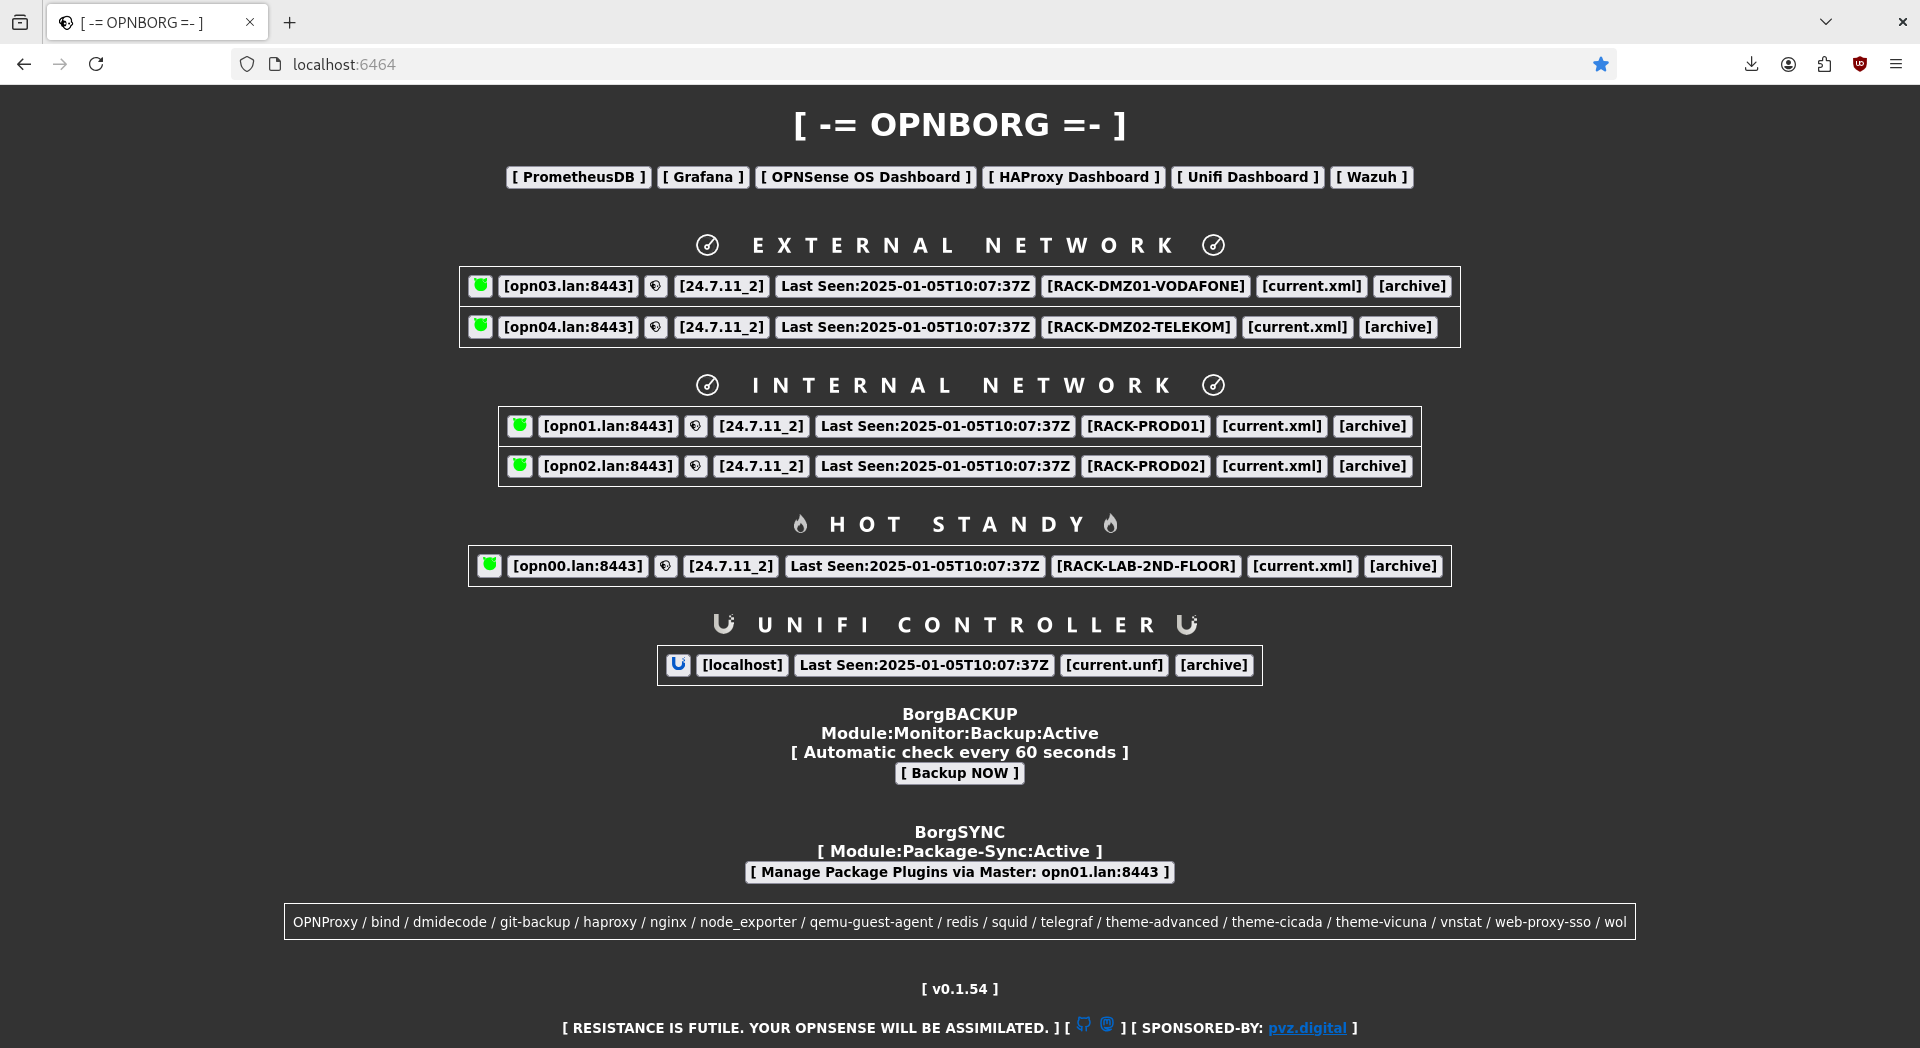
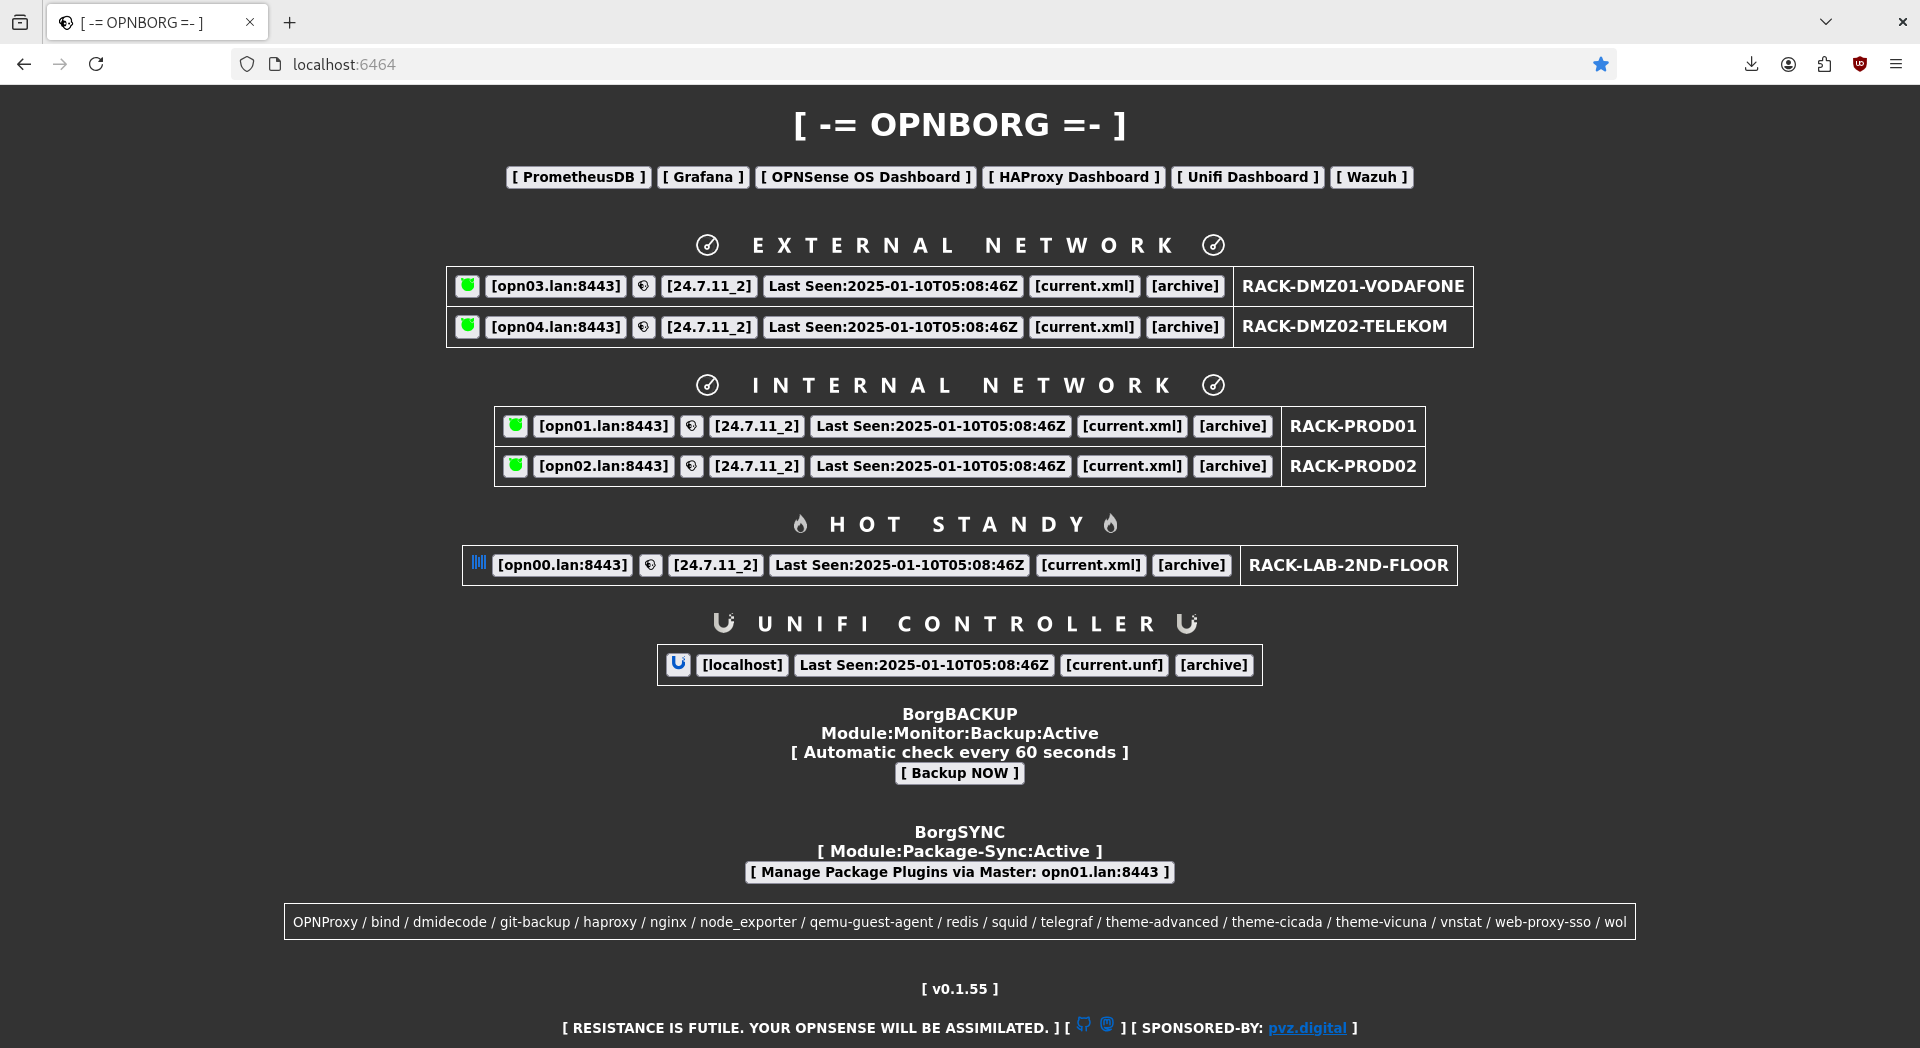
improve: asset tag webui integration

diff --git a/srv.go b/srv.go
@@ -72,14 +72,17 @@ func srv(config *OPNCall) error {
 			switch len(s) {
 			case 1:
 				if len(s[0]) > 0 {
-					status := _na + " <b>Member: </b> " + s[0] + " <b>Version: </b>n/a <b>Last Seen: </b>n/a<br>"
+					status := _na + " <b>Member: </b> " + s[0] + " <b>Version: </b>n/a <b>Last Seen: </b>n/a"
 					hive = append(hive, status)
 				}
 			case 2:
 				if len(s[0]) > 0 && len(s[1]) > 0 {
-					status := _na + " <b>Member: </b> " + s[0] + " <b>Version: </b>n/a <b>Last Seen: </b>n/a <b>AssetTag: </b>" + s[1] + "<br>"
+					status := _na + " <b>Member: </b> " + s[0] + " <b>Version: </b>n/a <b>Last Seen: </b>n/a </td><td><b>Tag: </b>" + s[1]
 					hive = append(hive, status)
 				}
+			default:
+				status := _na + " <b>configuration error, please fix configuration line: </b> " + server
+				hive = append(hive, status)
 			}
 		}
 	}

diff --git a/status.go b/status.go
@@ -36,11 +36,10 @@ func setOPNStatus(config *OPNCall, server, tag string, id int, ts time.Time, not
 		linkCurrent := "<a href=\"./files/" + server + "/current.xml\"" + _nwin + "><button><b>[current.xml]</b></button></a>"
 		linkArchive := "<a href=\"./files/" + server + "/" + archive + "\" " + _nwin + "><button><b>[archive]</b></button></a>"
 		links := " " + linkCurrent + " " + linkArchive
-		tags := ""
 		if tag != "" {
-			tags = " <button><b>[" + tag + "]</b></button>"
+			tag = " </td><td><b>" + tag + "</b>"
 		}
-		status := state + _b + linkUI + _b + linkVS + " <button><b>Last Seen:" + seen + "</b></button>" + tags + links + "<br>"
+		status := state + _b + linkUI + _b + linkVS + " <button><b>Last Seen:" + seen + "</b></button>" + links + tag
 		hiveMutex.Lock()
 		hive[id] = status
 		hiveMutex.Unlock()

diff --git a/api.go b/api.go
@@ -6,7 +6,7 @@ import (
 )
 
 // global exported consts
-const SemVer = "v0.1.54"
+const SemVer = "v0.1.55"
 
 // global var
 var (
